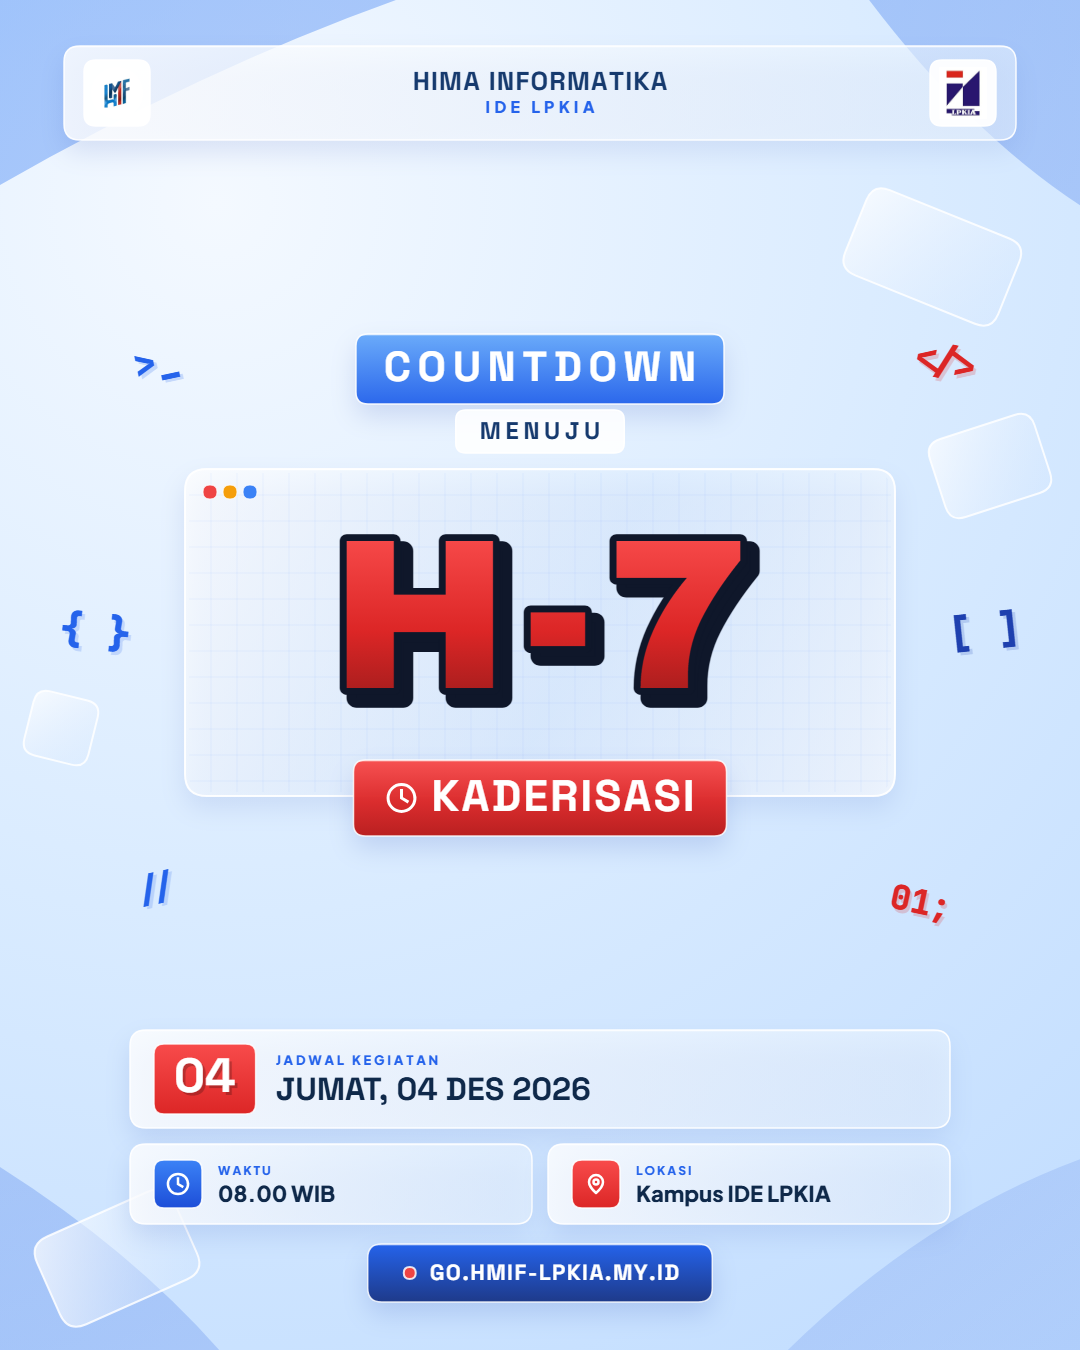
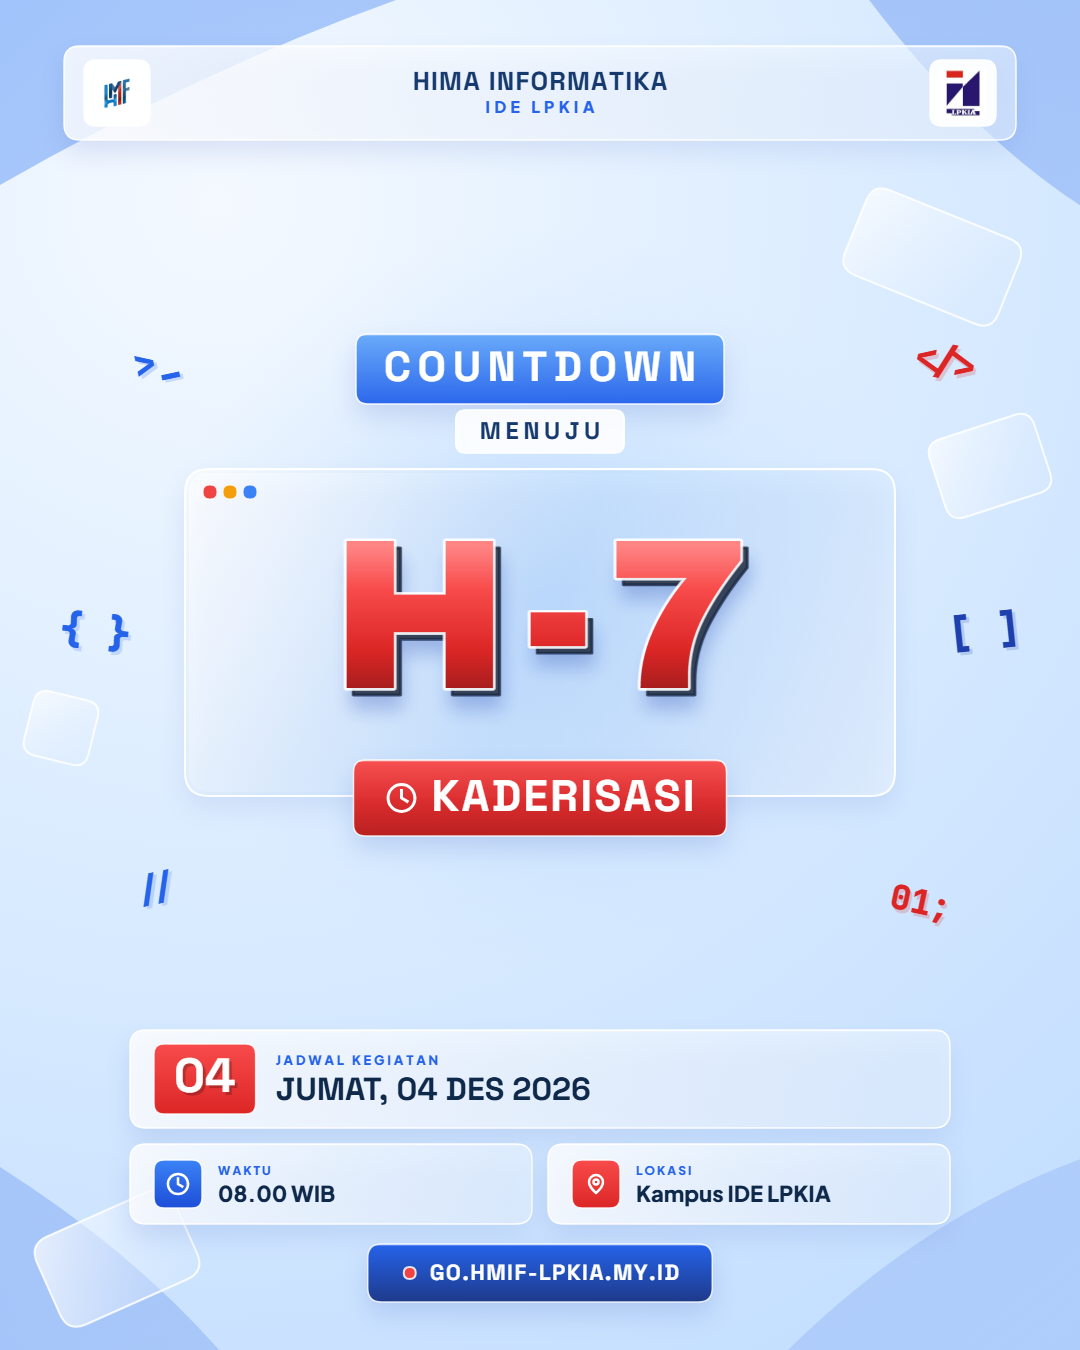
style: make H-7 and hero window frosted glossy glass in Glassmorphism theme

Changed region(s): [[0.3056, 0.3733, 0.7028, 0.56]]

diff --git a/index.html b/index.html
@@ -322,15 +322,15 @@
         }
         .style-glass .hero-menuju { color: #163A6E; }
         .style-glass .hero-card {
-            background: linear-gradient(135deg, rgba(255,255,255,0.72) 0%, rgba(224,239,255,0.42) 55%, rgba(255,255,255,0.58) 100%);
+            background: linear-gradient(138deg, rgba(255,255,255,0.68) 0%, rgba(191,223,255,0.44) 50%, rgba(235,245,255,0.64) 100%);
             backdrop-filter: blur(22px);
-            border: 2px solid rgba(255,255,255,0.92);
-            box-shadow: inset 0 2px 0 rgba(255,255,255,0.95), 0 24px 52px rgba(30, 64, 175, 0.18);
-            border-radius: 22px;
+            border: 2px solid rgba(255,255,255,0.95);
+            box-shadow: inset 0 2px 1px rgba(255,255,255,0.95), inset 0 -14px 32px rgba(96,165,250,0.24), 0 24px 52px rgba(30, 64, 175, 0.22);
+            border-radius: 24px;
         }
         .style-glass .hero-card-grid {
-            background-image: linear-gradient(to right, rgba(37,99,235,0.06) 1px, transparent 1px), linear-gradient(to bottom, rgba(37,99,235,0.06) 1px, transparent 1px);
-            background-size: 26px 26px;
+            background-image: linear-gradient(125deg, rgba(255,255,255,0.46) 0%, rgba(255,255,255,0.12) 38%, rgba(255,255,255,0) 58%);
+            background-size: 100% 100%;
         }
         .style-glass .win-dot { border: 1px solid rgba(255,255,255,0.7); border-radius: 999px; box-shadow: 0 2px 4px rgba(0,0,0,0.15); }
         .style-glass .win-dot-1 { background: #EF4444; }
@@ -629,7 +629,14 @@
                                 <stop offset="0%" stop-color="#FFFFFF" stop-opacity="0.72"/>
                                 <stop offset="100%" stop-color="#DBEAFE" stop-opacity="0.22"/>
                             </linearGradient>
+                            <radialGradient id="glassHeroOrb" cx="50%" cy="50%" r="50%">
+                                <stop offset="0%" stop-color="#60A5FA" stop-opacity="0.34"/>
+                                <stop offset="55%" stop-color="#93C5FD" stop-opacity="0.16"/>
+                                <stop offset="100%" stop-color="#BFDBFE" stop-opacity="0"/>
+                            </radialGradient>
                         </defs>
+                        <!-- Soft sky-blue ambient glow orb behind hero card -->
+                        <circle cx="540" cy="600" r="380" fill="url(#glassHeroOrb)"/>
                         <!-- Curved blue waves top-left & top-right -->
                         <path d="M-60 220 Q 240 40 520 -40 L -60 -40 Z" fill="url(#glassRibbon)"/>
                         <path d="M840 -40 Q 980 160 1140 240 L 1140 -40 Z" fill="url(#glassRibbon)"/>
@@ -698,9 +705,10 @@
 
                                 <svg viewBox="0 0 680 250" class="hero-svg relative z-10 w-[660px] h-[235px] overflow-visible" aria-label="H-7">
                                     <defs>
-                                        <linearGradient id="glassHeroGrad" x1="0%" y1="0%" x2="0%" y2="100%">
-                                            <stop offset="0%" stop-color="#F84B4B"/>
-                                            <stop offset="55%" stop-color="#DC2626"/>
+                                        <linearGradient id="glassHeroGrad" gradientUnits="userSpaceOnUse" x1="0" y1="36" x2="0" y2="212">
+                                            <stop offset="0%" stop-color="#FF8585"/>
+                                            <stop offset="28%" stop-color="#F84B4B"/>
+                                            <stop offset="68%" stop-color="#DC2626"/>
                                             <stop offset="100%" stop-color="#991B1B"/>
                                         </linearGradient>
                                     </defs>
@@ -840,33 +848,53 @@
             const svgShadow = document.getElementById('svgHeroShadow');
             const svgMain = document.getElementById('svgHeroMain');
             if (styleName === 'glass') {
-                svgShadow.setAttribute('fill', '#0F172A');
-                svgShadow.setAttribute('stroke', '#0F172A');
-                svgShadow.setAttribute('stroke-width', '20');
+                svgShadow.setAttribute('x', '347');
+                svgShadow.setAttribute('y', '132');
+                svgShadow.setAttribute('fill', '#1E293B');
+                svgShadow.setAttribute('stroke', '#1E293B');
+                svgShadow.setAttribute('stroke-width', '3');
+                svgShadow.style.opacity = '0.82';
+                svgShadow.style.filter = 'drop-shadow(0 14px 18px rgba(30, 64, 175, 0.34))';
                 svgMain.setAttribute('fill', 'url(#glassHeroGrad)');
-                svgMain.setAttribute('stroke', '#0F172A');
-                svgMain.setAttribute('stroke-width', '14');
+                svgMain.setAttribute('stroke', 'rgba(255, 255, 255, 0.90)');
+                svgMain.setAttribute('stroke-width', '5');
+                svgMain.style.filter = 'drop-shadow(0 4px 10px rgba(15, 23, 42, 0.22))';
             } else if (styleName === 'dark-code') {
+                svgShadow.setAttribute('x', '354');
+                svgShadow.setAttribute('y', '138');
+                svgShadow.style.opacity = '';
+                svgShadow.style.filter = '';
                 svgShadow.setAttribute('fill', '#EF4444');
                 svgShadow.setAttribute('stroke', '#000000');
                 svgShadow.setAttribute('stroke-width', '22');
                 svgMain.setAttribute('fill', '#FCD34D');
                 svgMain.setAttribute('stroke', '#060D1A');
                 svgMain.setAttribute('stroke-width', '16');
+                svgMain.style.filter = '';
             } else if (styleName === 'modern') {
+                svgShadow.setAttribute('x', '354');
+                svgShadow.setAttribute('y', '138');
+                svgShadow.style.opacity = '';
+                svgShadow.style.filter = '';
                 svgShadow.setAttribute('fill', '#FDD34D');
                 svgShadow.setAttribute('stroke', '#FDD34D');
                 svgShadow.setAttribute('stroke-width', '0');
                 svgMain.setAttribute('fill', '#FFFFFF');
                 svgMain.setAttribute('stroke', 'none');
                 svgMain.setAttribute('stroke-width', '0');
+                svgMain.style.filter = '';
             } else {
+                svgShadow.setAttribute('x', '354');
+                svgShadow.setAttribute('y', '138');
+                svgShadow.style.opacity = '';
+                svgShadow.style.filter = '';
                 svgShadow.setAttribute('fill', '#000000');
                 svgShadow.setAttribute('stroke', '#000000');
                 svgShadow.setAttribute('stroke-width', '26');
                 svgMain.setAttribute('fill', '#CA2C2A');
                 svgMain.setAttribute('stroke', '#000000');
                 svgMain.setAttribute('stroke-width', '18');
+                svgMain.style.filter = '';
             }
         }
 
@@ -1101,11 +1129,11 @@
                     cdText: '#FFFFFF', cdBorder: 1.5, cdBorderCol: 'rgba(255,255,255,0.90)', cdShadow: 0, cdRad: 12, cdRot: 0,
                     cdFontName: '"Space Grotesk", sans-serif', cdTrackRatio: 0.16,
                     mnFill: 'rgba(255,255,255,0.88)', mnText: '#163A6E', mnBorder: 1.5, mnBorderCol: '#FFFFFF', mnShadow: 0, mnRad: 10, mnRot: 0,
-                    cardFill: { dir: 'diag', stops: [[0, 'rgba(255,255,255,0.78)'], [0.55, 'rgba(224,239,255,0.52)'], [1, 'rgba(255,255,255,0.68)']] },
-                    cardBorder: 2, cardBorderCol: 'rgba(255,255,255,0.92)', cardShadow: 0, cardRad: 22, cardGrid: 'rgba(37,99,235,0.06)',
+                    cardFill: { dir: 'diag', stops: [[0, 'rgba(255,255,255,0.68)'], [0.5, 'rgba(191,223,255,0.44)'], [1, 'rgba(235,245,255,0.64)']] },
+                    cardBorder: 2, cardBorderCol: 'rgba(255,255,255,0.95)', cardShadow: 0, cardRad: 24, cardGrid: null,
                     winDots: ['#EF4444', '#F59E0B', '#3B82F6'], winDotRad: 99, winDotBorder: 1, winDotBorderCol: 'rgba(255,255,255,0.75)',
-                    heroShadowFill: '#0F172A', heroShadowStroke: '#0F172A', heroShadowSW: 20, heroShadowOff: 10,
-                    heroMainFill: 'glassGrad', heroMainStroke: '#0F172A', heroMainSW: 14,
+                    heroShadowFill: 'rgba(30, 41, 59, 0.82)', heroShadowStroke: 'rgba(30, 41, 59, 0.82)', heroShadowSW: 3, heroShadowOff: 7, heroShadowBlur: true,
+                    heroMainFill: 'glassGrad', heroMainStroke: 'rgba(255,255,255,0.90)', heroMainSW: 5, heroMainBlur: false,
                     stFill: { dir: 'vert', stops: [[0, 'rgba(248,75,75,0.96)'], [0.55, 'rgba(220,38,38,0.96)'], [1, 'rgba(185,28,28,0.98)']] },
                     stText: '#FFFFFF', stBorder: 1.5, stBorderCol: 'rgba(255,255,255,0.82)', stShadow: 0, stRad: 12, stRot: 0,
                     schedFill: { dir: 'diag', stops: [[0, 'rgba(255,255,255,0.82)'], [1, 'rgba(235,245,255,0.56)']] },
@@ -1286,6 +1314,16 @@
 
                 ctx.save();
                 ctx.scale(W / 1080, H / 1350);
+
+                // Soft ambient blue orb behind hero card
+                const orbGrad = ctx.createRadialGradient(540, 600, 0, 540, 600, 380);
+                orbGrad.addColorStop(0, 'rgba(96, 165, 250, 0.34)');
+                orbGrad.addColorStop(0.55, 'rgba(147, 197, 253, 0.16)');
+                orbGrad.addColorStop(1, 'rgba(191, 219, 254, 0)');
+                ctx.fillStyle = orbGrad;
+                ctx.beginPath();
+                ctx.arc(540, 600, 380, 0, Math.PI * 2);
+                ctx.fill();
 
                 const ribGrad = ctx.createLinearGradient(0, 0, 1080, 1350);
                 ribGrad.addColorStop(0, 'rgba(59, 130, 246, 0.42)');
@@ -1518,19 +1556,28 @@
             ctx.save();
             roundRectPath(heroCardX + 4, heroCardY + 4, hCfg.cardW - 8, heroCardH - 8, Math.max(0, T.cardRad - 4));
             ctx.clip();
-            ctx.strokeStyle = T.cardGrid;
-            ctx.lineWidth = 1;
-            for (let gx = heroCardX; gx < heroCardX + hCfg.cardW; gx += 26) {
-                ctx.beginPath();
-                ctx.moveTo(gx, heroCardY);
-                ctx.lineTo(gx, heroCardY + heroCardH);
-                ctx.stroke();
-            }
-            for (let gy = heroCardY; gy < heroCardY + heroCardH; gy += 26) {
-                ctx.beginPath();
-                ctx.moveTo(heroCardX, gy);
-                ctx.lineTo(heroCardX + hCfg.cardW, gy);
-                ctx.stroke();
+            if (T.cardGrid) {
+                ctx.strokeStyle = T.cardGrid;
+                ctx.lineWidth = 1;
+                for (let gx = heroCardX; gx < heroCardX + hCfg.cardW; gx += 26) {
+                    ctx.beginPath();
+                    ctx.moveTo(gx, heroCardY);
+                    ctx.lineTo(gx, heroCardY + heroCardH);
+                    ctx.stroke();
+                }
+                for (let gy = heroCardY; gy < heroCardY + heroCardH; gy += 26) {
+                    ctx.beginPath();
+                    ctx.moveTo(heroCardX, gy);
+                    ctx.lineTo(heroCardX + hCfg.cardW, gy);
+                    ctx.stroke();
+                }
+            } else if (currentStyle === 'glass') {
+                const sheen = ctx.createLinearGradient(heroCardX, heroCardY, heroCardX + hCfg.cardW * 0.65, heroCardY + heroCardH * 0.85);
+                sheen.addColorStop(0, 'rgba(255,255,255,0.46)');
+                sheen.addColorStop(0.45, 'rgba(255,255,255,0.12)');
+                sheen.addColorStop(1, 'rgba(255,255,255,0)');
+                ctx.fillStyle = sheen;
+                ctx.fillRect(heroCardX, heroCardY, hCfg.cardW, heroCardH);
             }
             ctx.restore();
 
@@ -1548,10 +1595,15 @@
             const heroCenterX = W / 2;
             const heroCenterY = heroCardY + hCfg.cardPt + hCfg.svgH / 2;
 
-            const drawHeroSvgLayer = (ox, oy, fillCol, strokeCol, strokeW) => {
+            const drawHeroSvgLayer = (ox, oy, fillCol, strokeCol, strokeW, blurGlow = false) => {
                 ctx.save();
                 ctx.translate(heroCenterX, heroCenterY);
                 ctx.scale(svgScale, svgScale);
+                if (blurGlow) {
+                    ctx.shadowColor = 'rgba(30, 64, 175, 0.34)';
+                    ctx.shadowBlur = 18;
+                    ctx.shadowOffsetY = 12;
+                }
                 ctx.font = `400 ${vFs}px "Archivo Black", "Space Grotesk", sans-serif`;
                 ctx.textBaseline = 'middle';
                 ctx.lineJoin = 'round';
@@ -1564,9 +1616,10 @@
                 ctx.textAlign = 'left';
                 const resolvedHeroFill = (() => {
                     if (fillCol !== 'glassGrad') return fillCol;
-                    const hg = ctx.createLinearGradient(0, oy - vFs * 0.42, 0, oy + vFs * 0.42);
-                    hg.addColorStop(0, '#F84B4B');
-                    hg.addColorStop(0.55, '#DC2626');
+                    const hg = ctx.createLinearGradient(0, oy - vFs * 0.36, 0, oy + vFs * 0.36);
+                    hg.addColorStop(0, '#FF8585');
+                    hg.addColorStop(0.28, '#F84B4B');
+                    hg.addColorStop(0.68, '#DC2626');
                     hg.addColorStop(1, '#991B1B');
                     return hg;
                 })();
@@ -1582,8 +1635,8 @@
                 });
                 ctx.restore();
             };
-            drawHeroSvgLayer(T.heroShadowOff, T.heroShadowOff, T.heroShadowFill, T.heroShadowStroke, T.heroShadowSW);
-            drawHeroSvgLayer(0, 0, T.heroMainFill, T.heroMainStroke, T.heroMainSW);
+            drawHeroSvgLayer(T.heroShadowOff, T.heroShadowOff, T.heroShadowFill, T.heroShadowStroke, T.heroShadowSW, !!T.heroShadowBlur);
+            drawHeroSvgLayer(0, 0, T.heroMainFill, T.heroMainStroke, T.heroMainSW, !!T.heroMainBlur);
 
             // COUNTDOWN Badge
             const cdTxt = (document.getElementById('outCountdown').textContent || 'COUNTDOWN').trim().toUpperCase();
